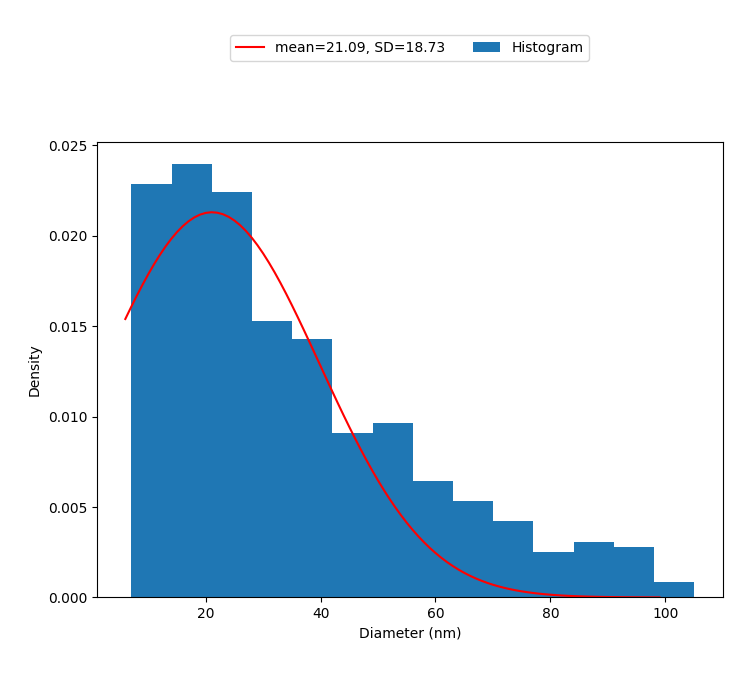
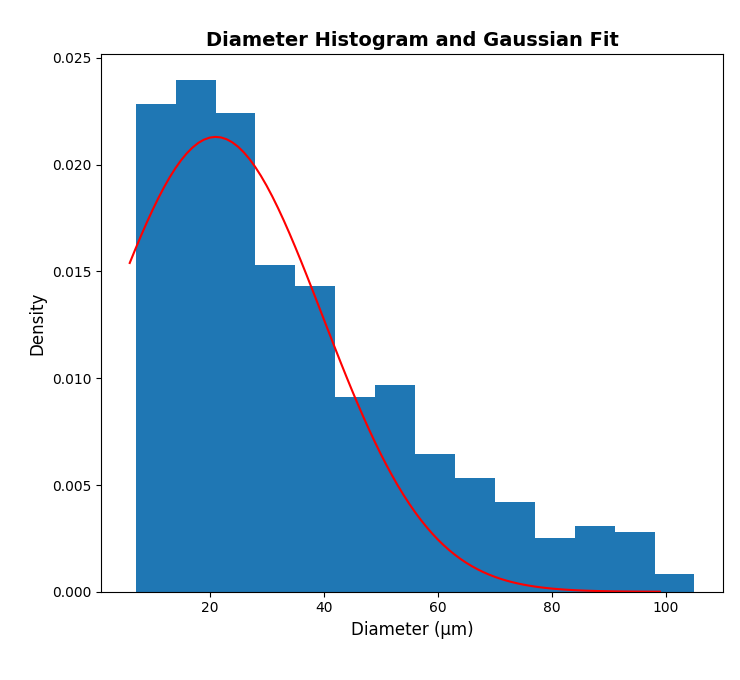
Fix histogram visualization

diff --git a/data-analysis/src/visualization.py b/data-analysis/src/visualization.py
@@ -104,9 +104,9 @@ def generate_histogram(measurements: List[DiameterMeasurement], output_folder_pa
     plt.bar(bin_centers, hist, width=np.diff(bin_edges), label='Histogram')
     plt.plot(x_range, fitted_distribution, 'r-', label=f'mean={np.round(mu_fit, 2)}, SD={np.round(sigma_fit, 2)}')
 
-    plt.legend(loc='upper center', bbox_to_anchor=(0.5, 1.25), ncol=2)  # Adjust the ncol as needed
-    plt.xlabel('Diameter (nm)')
-    plt.ylabel('Density')
+    plt.title('Diameter Histogram and Gaussian Fit', fontdict={'weight': 'bold', 'size': 14})
+    plt.xlabel('Diameter (μm)', fontdict={'size': 12})
+    plt.ylabel('Density', fontdict={'size': 12})
 
     plt.tight_layout()
 
